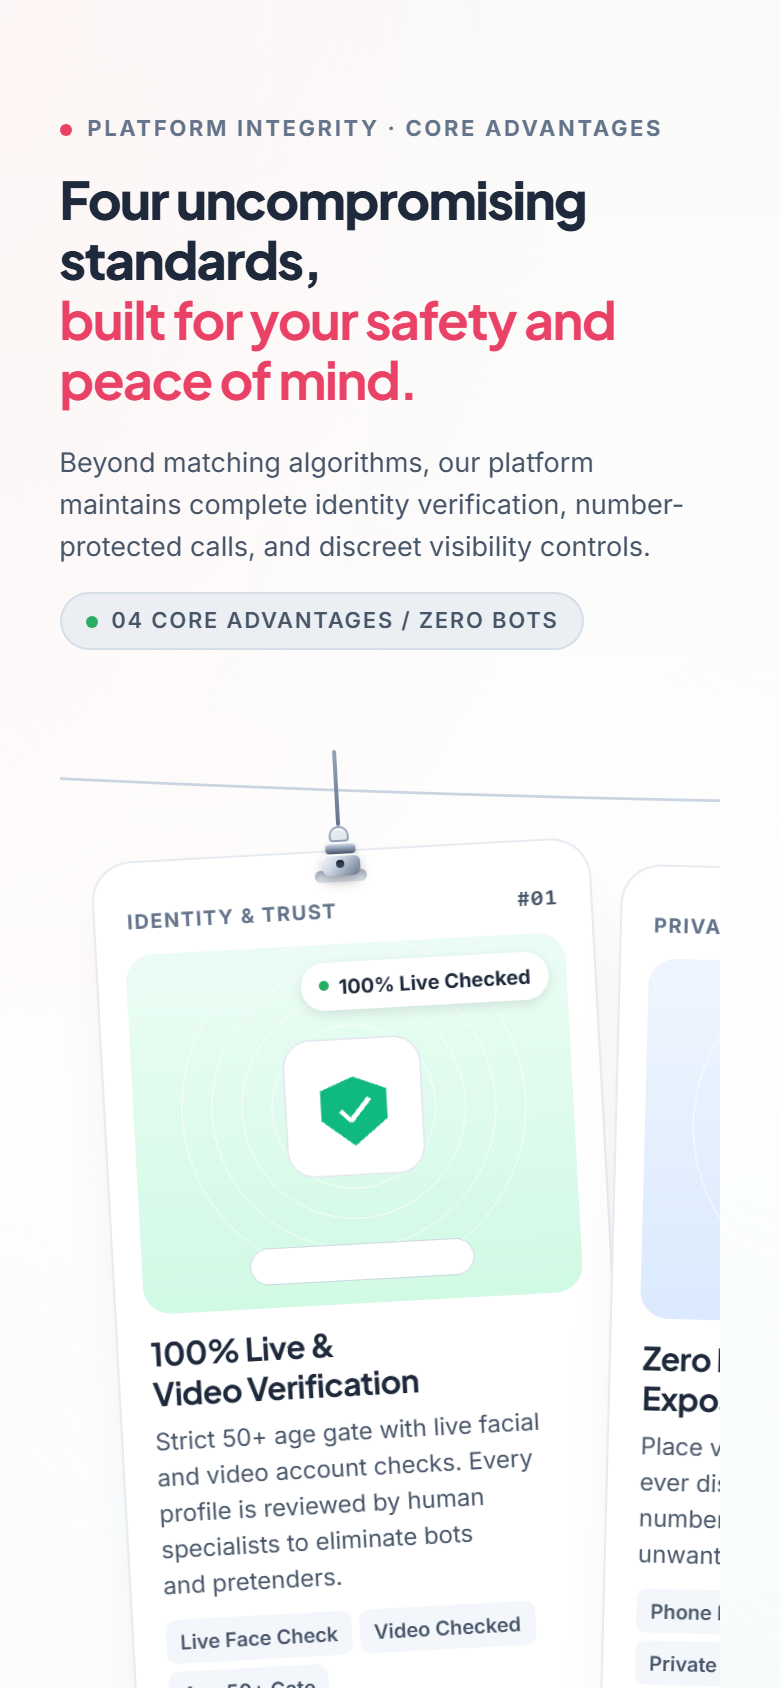
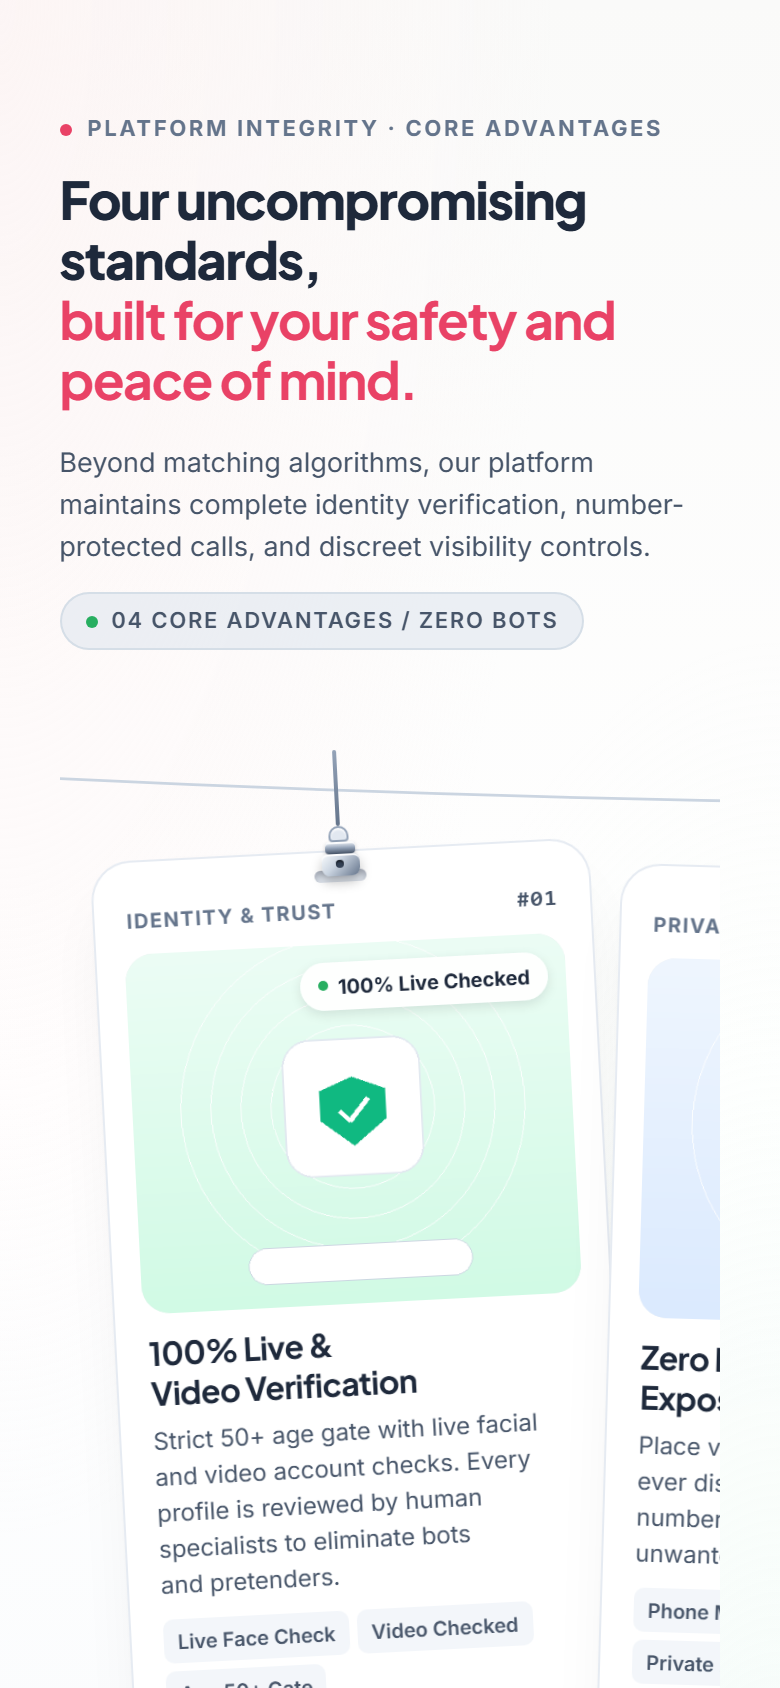
style(hero): widen photo card to 505px, lift vertical alignment, and optimize crop & badge placement

diff --git a/scratch/snap_crops.js b/scratch/snap_crops.js
@@ -1,0 +1,118 @@
+const http = require('http');
+const fs = require('fs');
+const path = require('path');
+const { spawn } = require('child_process');
+
+const ROOT_DIR = path.resolve(__dirname, '..');
+const EDGE_PATH = "C:\\Program Files (x86)\\Microsoft\\Edge\\Application\\msedge.exe";
+const CDP_PORT = 9222;
+
+function startStaticServer() {
+  return new Promise((resolve) => {
+    const server = http.createServer((req, res) => {
+      let reqPath = decodeURI(req.url.split('?')[0]);
+      if (reqPath === '/' || reqPath === '') reqPath = '/scratch/test_crop.html';
+      const filePath = path.join(ROOT_DIR, reqPath);
+      if (!fs.existsSync(filePath)) {
+        res.writeHead(404);
+        res.end('Not Found');
+        return;
+      }
+      res.writeHead(200);
+      fs.createReadStream(filePath).pipe(res);
+    });
+    server.listen(0, '127.0.0.1', () => {
+      resolve({ server, port: server.address().port });
+    });
+  });
+}
+
+async function sleep(ms) { return new Promise(r => setTimeout(r, ms)); }
+
+async function getWsUrl() {
+  for (let i = 0; i < 20; i++) {
+    try {
+      const res = await fetch(`http://127.0.0.1:${CDP_PORT}/json/list`);
+      if (res.ok) {
+        const list = await res.json();
+        const page = list.find(t => t.type === 'page');
+        if (page && page.webSocketDebuggerUrl) return page.webSocketDebuggerUrl;
+      }
+    } catch (e) {}
+    await sleep(300);
+  }
+  throw new Error("Failed to connect");
+}
+
+class CDPClient {
+  constructor(wsUrl) {
+    this.wsUrl = wsUrl;
+    this.ws = null;
+    this.id = 1;
+    this.callbacks = new Map();
+  }
+  async connect() {
+    this.ws = new WebSocket(this.wsUrl);
+    await new Promise((resolve, reject) => {
+      this.ws.onopen = resolve;
+      this.ws.onerror = reject;
+    });
+    this.ws.onmessage = (event) => {
+      const msg = JSON.parse(event.data);
+      if (msg.id && this.callbacks.has(msg.id)) {
+        const cb = this.callbacks.get(msg.id);
+        this.callbacks.delete(msg.id);
+        if (msg.error) cb.reject(msg.error);
+        else cb.resolve(msg.result);
+      }
+    };
+  }
+  send(method, params = {}) {
+    return new Promise((resolve, reject) => {
+      const id = this.id++;
+      this.callbacks.set(id, { resolve, reject });
+      this.ws.send(JSON.stringify({ id, method, params }));
+    });
+  }
+  close() { this.ws.close(); }
+}
+
+async function run() {
+  const { server, port } = await startStaticServer();
+  const edgeProc = spawn(EDGE_PATH, [
+    `--remote-debugging-port=${CDP_PORT}`,
+    '--headless',
+    '--disable-gpu',
+    '--no-first-run',
+    '--no-default-browser-check',
+    'about:blank'
+  ]);
+
+  try {
+    const wsUrl = await getWsUrl();
+    const client = new CDPClient(wsUrl);
+    await client.connect();
+
+    await client.send('Page.enable');
+    await client.send('Emulation.setDeviceMetricsOverride', {
+      width: 1600,
+      height: 900,
+      deviceScaleFactor: 1,
+      mobile: false
+    });
+
+    await client.send('Page.navigate', { url: `http://127.0.0.1:${port}/scratch/test_crop.html` });
+    await sleep(1500);
+
+    const shot = await client.send('Page.captureScreenshot', { format: 'png' });
+    fs.writeFileSync(path.join(ROOT_DIR, 'scratch', 'test_crop_result.png'), Buffer.from(shot.data, 'base64'));
+    console.log('test_crop_result.png saved');
+    client.close();
+  } catch (err) {
+    console.error(err);
+  } finally {
+    edgeProc.kill();
+    server.close();
+  }
+}
+run();

diff --git a/scratch/test_crop.js b/scratch/test_crop.js
@@ -1,0 +1,45 @@
+const fs = require('fs');
+const path = require('path');
+const http = require('http');
+
+// Simple test page to see different crops of hero photo
+const html = `<!DOCTYPE html>
+<html>
+<head>
+<style>
+  body { font-family: sans-serif; background: #f0f0f0; padding: 20px; display: flex; gap: 20px; }
+  .box { width: 490px; background: white; padding: 16px; border-radius: 20px; box-shadow: 0 4px 12px rgba(0,0,0,0.1); }
+  .frame { border-radius: 16px; overflow: hidden; background: #FAFAF9; border: 1px solid #e2e8f0; position: relative; }
+  img { width: 100%; display: block; object-fit: cover; }
+  .badge { position: absolute; background: #dcfce7; color: #15803d; padding: 4px 10px; border-radius: 999px; font-size: 12px; font-weight: bold; border: 1px solid #86efac; }
+  .b-top-left { top: 12px; left: 12px; }
+  .b-bottom-right { bottom: 12px; right: 12px; }
+</style>
+</head>
+<body>
+  <div class="box">
+    <h3>Option A: height 360px, object-position: center 28%</h3>
+    <div class="frame">
+      <img src="/assets/ui/ui02-daily-picks.jpg" style="height: 360px; object-position: center 28%;">
+      <span class="badge b-bottom-right">✓ ID Confirmed</span>
+    </div>
+  </div>
+  <div class="box">
+    <h3>Option B: height 380px, object-position: center 32%</h3>
+    <div class="frame">
+      <img src="/assets/ui/ui02-daily-picks.jpg" style="height: 380px; object-position: center 32%;">
+      <span class="badge b-bottom-right">✓ ID Confirmed</span>
+    </div>
+  </div>
+  <div class="box">
+    <h3>Option C: height 400px, object-position: center 35%</h3>
+    <div class="frame">
+      <img src="/assets/ui/ui02-daily-picks.jpg" style="height: 400px; object-position: center 35%;">
+      <span class="badge b-bottom-right">✓ ID Confirmed</span>
+    </div>
+  </div>
+</body>
+</html>`;
+
+fs.writeFileSync(path.join(__dirname, 'test_crop.html'), html);
+console.log('test_crop.html written');

diff --git a/index.html b/index.html
@@ -553,12 +553,12 @@ img {
 /* ================= 2-COLUMN STAGE GRID ================= */
 
 .hero-stage-grid {
-  max-width: 1140px;
+  max-width: 1180px;
   margin: 0 auto;
   display: grid;
-  grid-template-columns: 1.12fr 0.88fr;
-  gap: clamp(24px, 3.5vw, 48px);
-  align-items: center;
+  grid-template-columns: 1.05fr 0.95fr;
+  gap: clamp(20px, 3vw, 40px);
+  align-items: flex-start;
 }
 
 /* ================= LEFT COLUMN: EDITORIAL & RHYTHMS ================= */
@@ -869,19 +869,20 @@ img {
 .hero-right-col {
   display: flex;
   justify-content: flex-end;
+  margin-top: -14px;
 }
 
 .hero-story-art-card {
   width: 100%;
-  max-width: 440px;
+  max-width: 505px;
   background: #FFFFFF;
   border: 1px solid rgba(226, 232, 240, 0.9);
   border-radius: 20px;
-  padding: 16px 18px;
+  padding: 15px 16px;
   box-shadow: 0 16px 40px -12px rgba(35, 28, 26, 0.09);
   display: flex;
   flex-direction: column;
-  gap: 11px;
+  gap: 10px;
   position: relative;
 }
 
@@ -921,7 +922,7 @@ img {
 .art-visual-box {
   display: flex;
   flex-direction: column;
-  gap: 12px;
+  gap: 10px;
 }
 
 .art-collage-frame {
@@ -929,7 +930,7 @@ img {
   background: #FAFAF9;
   border: 1px solid rgba(226, 232, 240, 0.85);
   border-radius: 16px;
-  padding: 8px;
+  padding: 4px;
   box-shadow: 0 2px 8px rgba(35, 28, 26, 0.04);
   overflow: hidden;
 }
@@ -937,18 +938,18 @@ img {
 .art-collage-img,
 .art-photo {
   width: 100%;
-  height: clamp(260px, 30vw, 320px);
-  min-height: 260px;
+  height: clamp(290px, 33vw, 360px);
+  min-height: 290px;
   object-fit: cover;
-  object-position: center 25%;
+  object-position: center 27%;
   border-radius: 12px;
   display: block;
 }
 
 .art-photo-badge {
   position: absolute;
-  top: 16px;
-  right: 16px;
+  bottom: 12px;
+  right: 12px;
   z-index: 2;
 }
 
@@ -1106,6 +1107,7 @@ img {
 
   .hero-right-col {
     justify-content: center;
+    margin-top: 0;
   }
 
   .hero-story-art-card {

diff --git a/components/hero/style.css b/components/hero/style.css
@@ -25,12 +25,12 @@
 /* ================= 2-COLUMN STAGE GRID ================= */
 
 .hero-stage-grid {
-  max-width: 1140px;
+  max-width: 1180px;
   margin: 0 auto;
   display: grid;
-  grid-template-columns: 1.12fr 0.88fr;
-  gap: clamp(24px, 3.5vw, 48px);
-  align-items: center;
+  grid-template-columns: 1.05fr 0.95fr;
+  gap: clamp(20px, 3vw, 40px);
+  align-items: flex-start;
 }
 
 /* ================= LEFT COLUMN: EDITORIAL & RHYTHMS ================= */
@@ -341,19 +341,20 @@
 .hero-right-col {
   display: flex;
   justify-content: flex-end;
+  margin-top: -14px;
 }
 
 .hero-story-art-card {
   width: 100%;
-  max-width: 440px;
+  max-width: 505px;
   background: #FFFFFF;
   border: 1px solid rgba(226, 232, 240, 0.9);
   border-radius: 20px;
-  padding: 16px 18px;
+  padding: 15px 16px;
   box-shadow: 0 16px 40px -12px rgba(35, 28, 26, 0.09);
   display: flex;
   flex-direction: column;
-  gap: 11px;
+  gap: 10px;
   position: relative;
 }
 
@@ -393,7 +394,7 @@
 .art-visual-box {
   display: flex;
   flex-direction: column;
-  gap: 12px;
+  gap: 10px;
 }
 
 .art-collage-frame {
@@ -401,7 +402,7 @@
   background: #FAFAF9;
   border: 1px solid rgba(226, 232, 240, 0.85);
   border-radius: 16px;
-  padding: 8px;
+  padding: 4px;
   box-shadow: 0 2px 8px rgba(35, 28, 26, 0.04);
   overflow: hidden;
 }
@@ -409,18 +410,18 @@
 .art-collage-img,
 .art-photo {
   width: 100%;
-  height: clamp(260px, 30vw, 320px);
-  min-height: 260px;
+  height: clamp(290px, 33vw, 360px);
+  min-height: 290px;
   object-fit: cover;
-  object-position: center 25%;
+  object-position: center 27%;
   border-radius: 12px;
   display: block;
 }
 
 .art-photo-badge {
   position: absolute;
-  top: 16px;
-  right: 16px;
+  bottom: 12px;
+  right: 12px;
   z-index: 2;
 }
 
@@ -578,6 +579,7 @@
 
   .hero-right-col {
     justify-content: center;
+    margin-top: 0;
   }
 
   .hero-story-art-card {

diff --git a/scratch/test_crop.html b/scratch/test_crop.html
@@ -1,0 +1,37 @@
+<!DOCTYPE html>
+<html>
+<head>
+<style>
+  body { font-family: sans-serif; background: #f0f0f0; padding: 20px; display: flex; gap: 20px; }
+  .box { width: 490px; background: white; padding: 16px; border-radius: 20px; box-shadow: 0 4px 12px rgba(0,0,0,0.1); }
+  .frame { border-radius: 16px; overflow: hidden; background: #FAFAF9; border: 1px solid #e2e8f0; position: relative; }
+  img { width: 100%; display: block; object-fit: cover; }
+  .badge { position: absolute; background: #dcfce7; color: #15803d; padding: 4px 10px; border-radius: 999px; font-size: 12px; font-weight: bold; border: 1px solid #86efac; }
+  .b-top-left { top: 12px; left: 12px; }
+  .b-bottom-right { bottom: 12px; right: 12px; }
+</style>
+</head>
+<body>
+  <div class="box">
+    <h3>Option A: height 360px, object-position: center 28%</h3>
+    <div class="frame">
+      <img src="/assets/ui/ui02-daily-picks.jpg" style="height: 360px; object-position: center 28%;">
+      <span class="badge b-bottom-right">✓ ID Confirmed</span>
+    </div>
+  </div>
+  <div class="box">
+    <h3>Option B: height 380px, object-position: center 32%</h3>
+    <div class="frame">
+      <img src="/assets/ui/ui02-daily-picks.jpg" style="height: 380px; object-position: center 32%;">
+      <span class="badge b-bottom-right">✓ ID Confirmed</span>
+    </div>
+  </div>
+  <div class="box">
+    <h3>Option C: height 400px, object-position: center 35%</h3>
+    <div class="frame">
+      <img src="/assets/ui/ui02-daily-picks.jpg" style="height: 400px; object-position: center 35%;">
+      <span class="badge b-bottom-right">✓ ID Confirmed</span>
+    </div>
+  </div>
+</body>
+</html>
